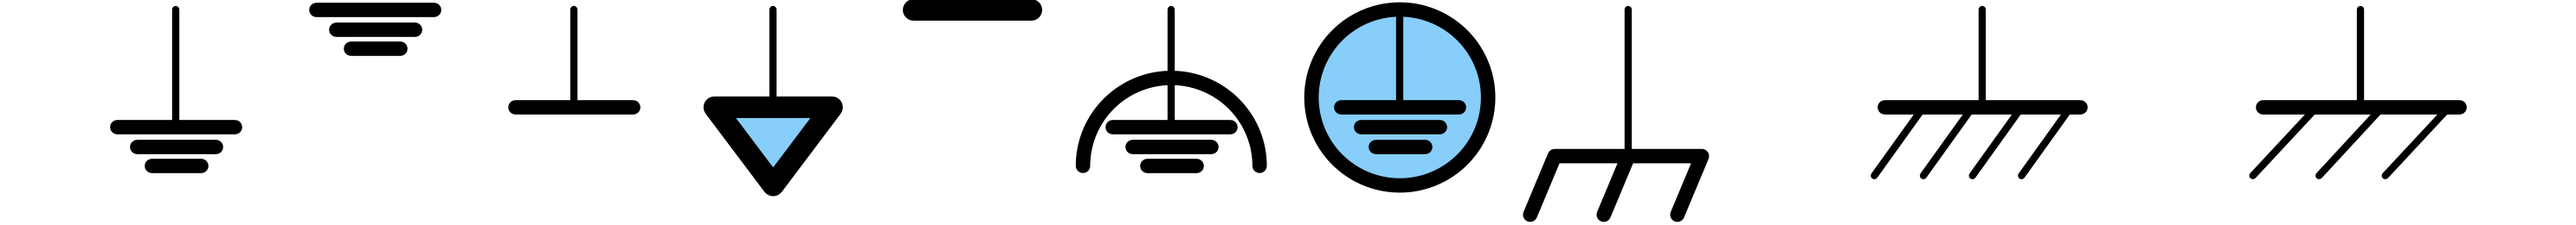
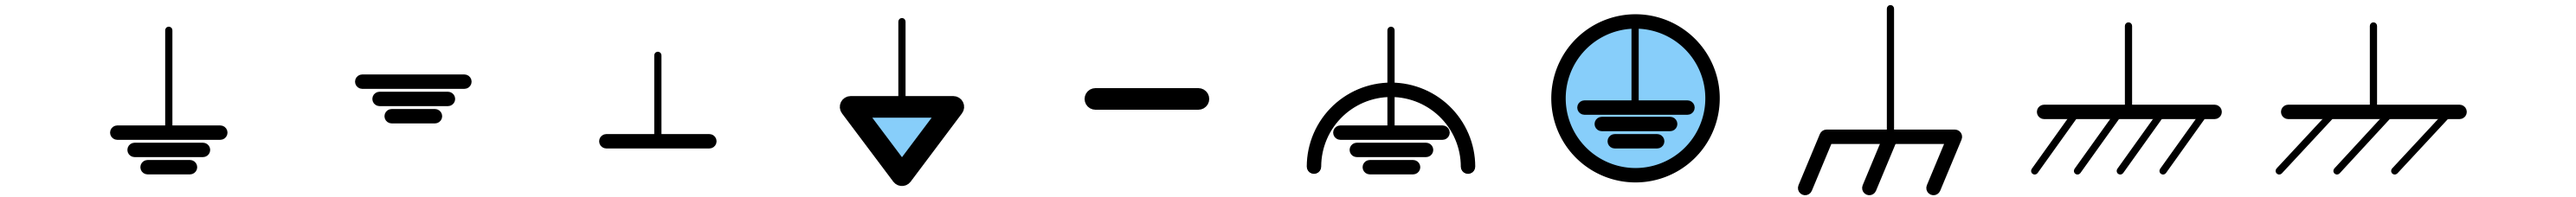
Refactor ground objects in HelloWorld.py

diff --git a/Demos/HelloWorld.py b/Demos/HelloWorld.py
@@ -8,16 +8,16 @@ if __name__ == "__main__":
     engine = Engine.MatPlotLib()
 
     with CellView.Schematic() as sch:
-        sch += (ground := Ground.Ground())
-        sch += (tlground := Ground.TaillessGround().translate(point = ground.northEast() + Utility.Point(0.5, 0)))
-        sch += (refground := Ground.ReferenceGround().translate(point = tlground.northEast() + Utility.Point(0.5, 0)))
-        sch += (sground := Ground.SignalGround().translate(point = refground.northEast() + Utility.Point(0.5, 0)))
-        sch += (tground := Ground.ThickerGround().translate(point = sground.northEast() + Utility.Point(0.5, 0)))
-        sch += (nground := Ground.NoiselessGround().translate(point = tground.northEast() + Utility.Point(0.5, 0)))
-        sch += (pground := Ground.ProtectiveGround().translate(point = nground.northEast() + Utility.Point(0.5, 0)))
-        sch += (cground := Ground.ChassisGround().translate(point = pground.northEast() + Utility.Point(0.5, 0)))
-        sch += (eground := Ground.EuropeanStyleGround().translate(point = cground.northEast() + Utility.Point(1, 0)))
-        sch += (eground2 := Ground.EuropeanStyleGround2().translate(point = eground.northEast() + Utility.Point(1, 0)))
+        sch += (ground := Ground.Ground().translate(point = Utility.Point(0, 0) - Ground.Ground().center()))
+        sch += (tlground := Ground.TaillessGround().translate(point = Utility.Point(1, 0) - Ground.TaillessGround().center()))
+        sch += (refground := Ground.ReferenceGround().translate(point = Utility.Point(2, 0) - Ground.ReferenceGround().center()))
+        sch += (sground := Ground.SignalGround().translate(point = Utility.Point(3, 0) - Ground.SignalGround().center()))
+        sch += (tground := Ground.ThickerGround().translate(point = Utility.Point(4, 0) - Ground.ThickerGround().center()))
+        sch += (nground := Ground.NoiselessGround().translate(point = Utility.Point(5, 0) - Ground.NoiselessGround().center()))
+        sch += (pground := Ground.ProtectiveGround().translate(point = Utility.Point(6, 0) - Ground.ProtectiveGround().center()))
+        sch += (cground := Ground.ChassisGround().translate(point = Utility.Point(7, 0) - Ground.ChassisGround().center()))
+        sch += (eground := Ground.EuropeanStyleGround().translate(point = Utility.Point(8, 0) - Ground.EuropeanStyleGround().center()))
+        sch += (eground2 := Ground.EuropeanStyleGround2().translate(point = Utility.Point(9, 0) - Ground.EuropeanStyleGround2().center()))
 
         engine.draw(sch, debug = True)
         
